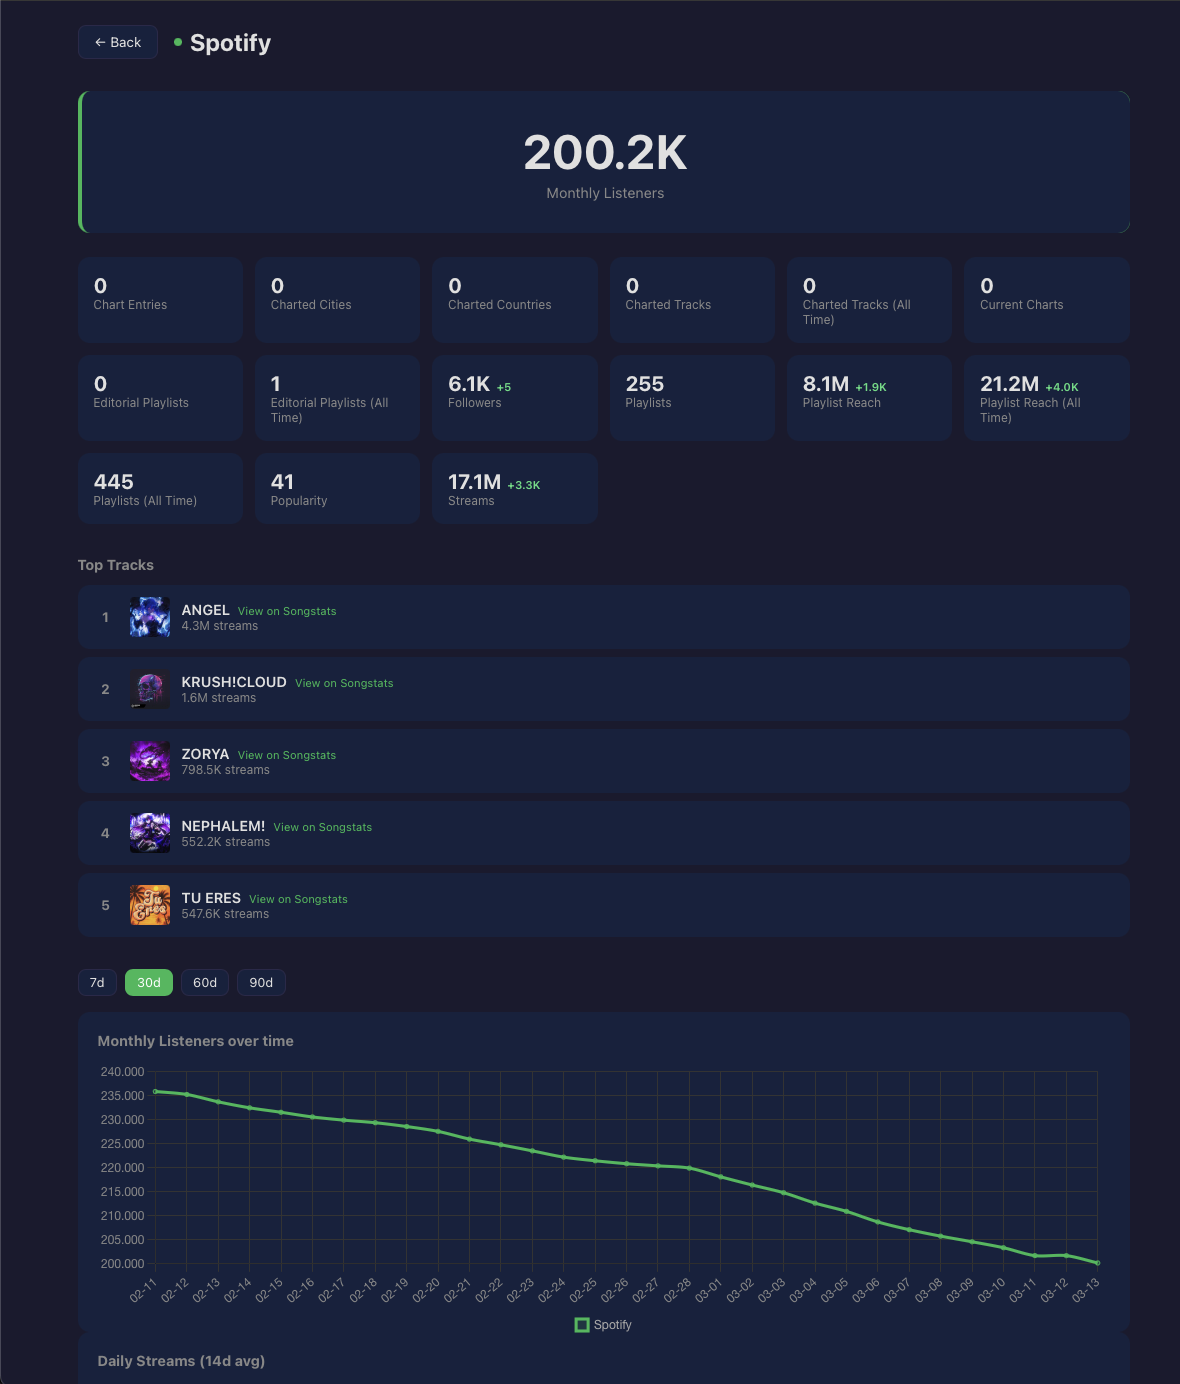
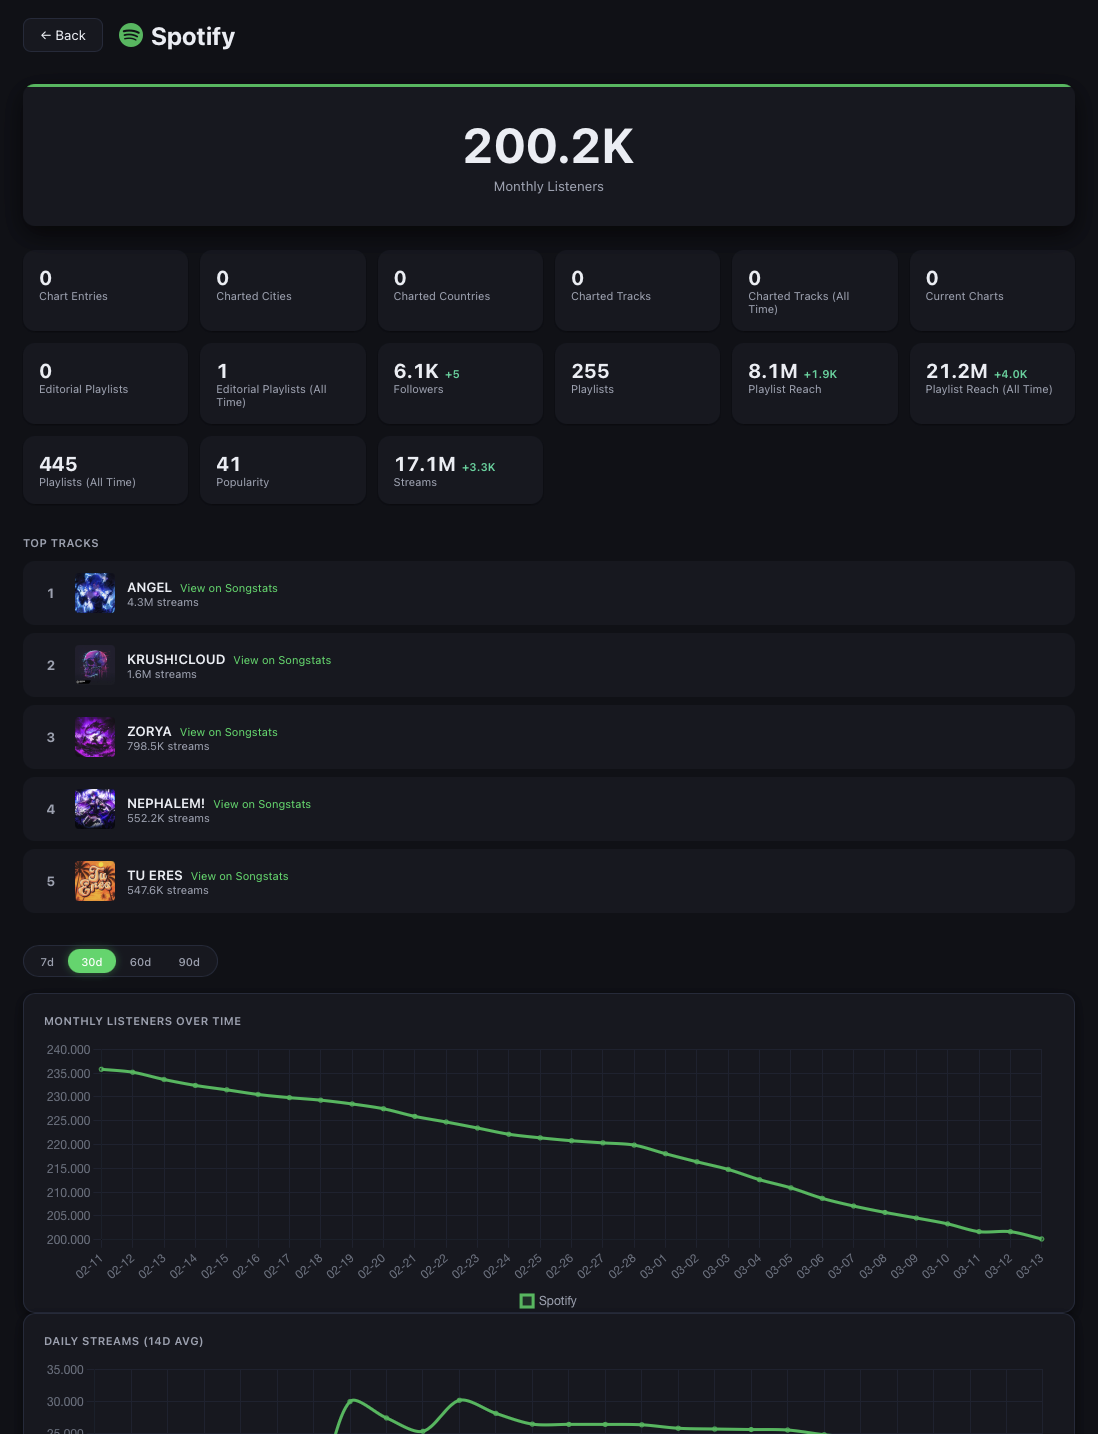
Update screenshots with latest app views

diff --git a/README.md b/README.md
@@ -3,7 +3,7 @@
 A cross-platform app for desktop and mobile that tracks streaming stats for music artists across 8 platforms using the [Songstats API](https://rapidapi.com/songstats-app-songstats-app-default/api/songstats). Built with Tauri 2 (Rust + React). Runs on macOS, Windows, iOS, and Android.
 
 <p align="center">
-  <img src="docs/screenshots/dashboard.png" alt="Dashboard" width="720" />
+  <img src="docs/screenshots/dashboard-1.png" alt="Dashboard" width="720" />
 </p>
 
 ## Download
@@ -34,10 +34,11 @@ Spotify, Apple Music, YouTube, TikTok, Deezer, Amazon Music, Shazam, SoundCloud
 ## Screenshots
 
 <details>
-<summary><b>Dashboard</b> — KPI cards, daily growth chart, platform share breakdown</summary>
+<summary><b>Dashboard</b> — Platform cards, followers pie chart, KPI cards, daily growth chart, growth share</summary>
 <br />
 <p align="center">
-  <img src="docs/screenshots/dashboard.png" alt="Dashboard view showing platform cards, KPI row, stacked bar chart, and growth share" width="720" />
+  <img src="docs/screenshots/dashboard-1.png" alt="Dashboard view showing platform cards, followers pie chart, and KPI row" width="720" />
+  <img src="docs/screenshots/dashboard-2.png" alt="Dashboard view showing daily growth by platform chart and growth share breakdown" width="720" />
 </p>
 </details>
 
